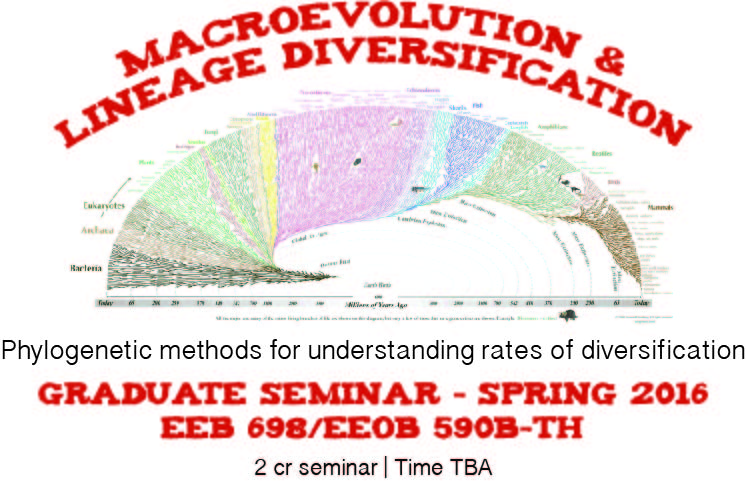
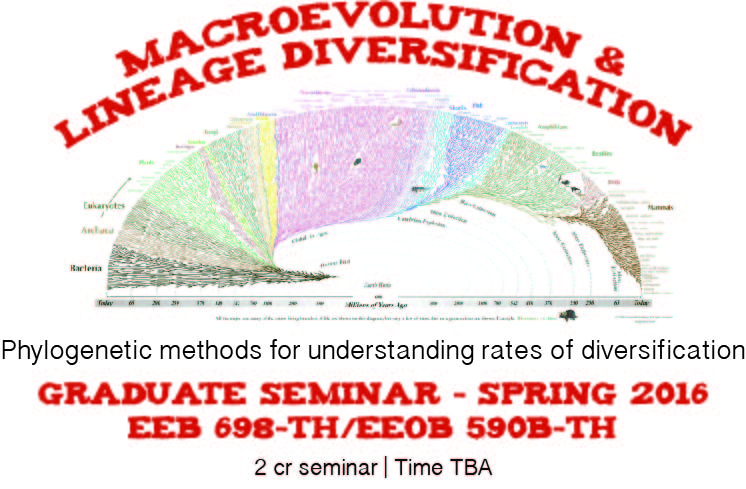
up

Changed region(s): [[0.1542, 0.8282, 0.8324, 0.9202]]

diff --git a/courses/macrodiv.html b/courses/macrodiv.html
@@ -70,7 +70,7 @@
 
         <div class="row">
             <div class="col-lg-12">
-                <h1 class="page-header">EEB 698/EEOB 590B-TH Macroevolution & Lineage Diversification
+                <h1 class="page-header">EEB 698-TH/EEOB 590B-TH Macroevolution & Lineage Diversification
                 </h1>
                 <h3>A graduate seminar on phylogenetic methods for understanding rates of diversification</h3>
 				<big>
